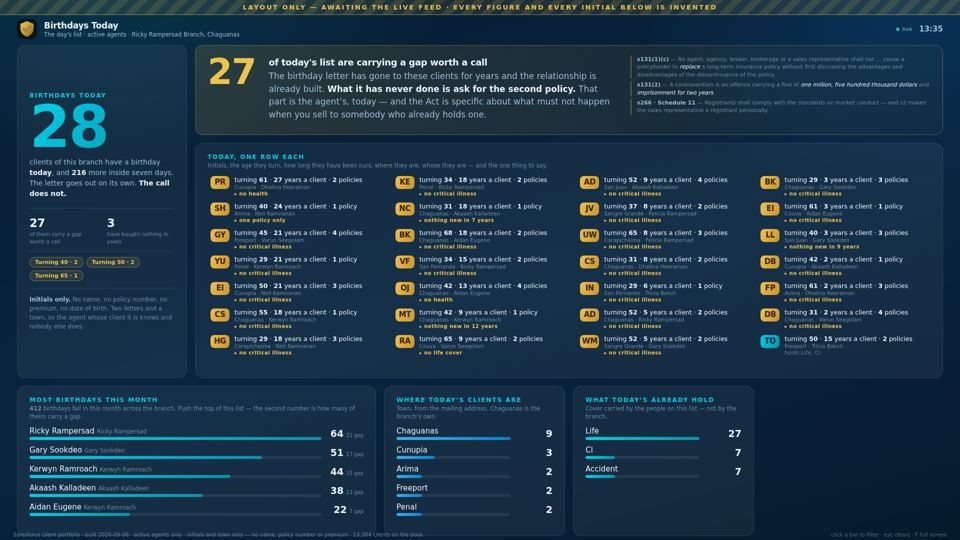
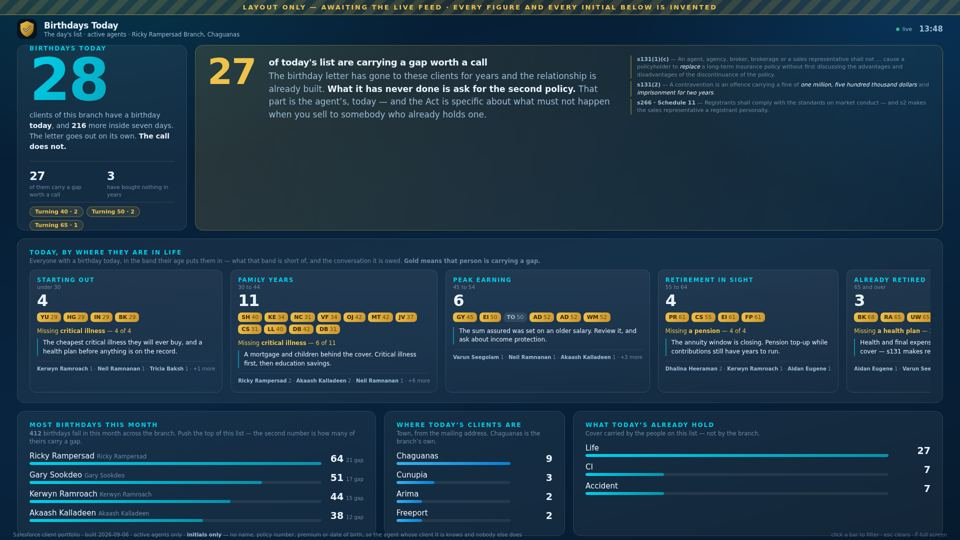
Group the day into five life stages, each with the cover it is short of
The wall was a list and a list is a spreadsheet. Twenty eight rows sorted by
tenure tells an agent nothing an export could not. It is five bands now —
starting out, family years, peak earning, retirement in sight, already retired —
each carrying its people as initials, the cover that stage is missing with a
count, and one sentence about what to say. An agent scans for their own
initials, reads the line above them, and knows the conversation before dialling.

EACH BAND CHECKS ITS OWN GAP, NOT THE BIGGEST ONE. The first cut took whichever
gap had the highest count in the band and four of the five came out saying "a
health plan", because almost nobody in this book holds health. True, and
useless: a wall that gives every life stage the same answer has stopped being a
segmentation. Each band now names the gap its own advice is about, so the
evidence line and the conversation line agree — critical illness under 45, a
review over 45, a pension at 55, health at 65.

Age is the band because it is on 100% of rows, true of everybody on the list,
and the thing that actually decides which product is right. The talking points
are branch policy rather than data, so they sit in IBOOK_BANDS in the script,
once, instead of in the wall's HTML — the screen and the app cannot then drift
apart on what the branch says about a sixty five year old. Empty bands are drawn
dim rather than dropped: a morning with nobody approaching retirement is worth
[…]

Changed region(s): [[0.0312, 0.0593, 0.9688, 1.0], [0.4375, 0.9778, 0.5312, 1.0], [0.5625, 0.9185, 0.5938, 0.9481]]

diff --git a/intelligence/wall/book.html b/intelligence/wall/book.html
@@ -75,7 +75,7 @@
     /* Seven rows of people need 450; the bottom three panels need 300 to show
        five lines each. The first cut gave row two everything and left row three
        showing four of five with the fifth sliced. */
-    grid-template-rows:auto minmax(0,470px) minmax(0,300px);
+    grid-template-rows:auto minmax(0,430px) minmax(0,250px);
     gap:13px;padding:0 26px 20px;height:calc(100vh - 66px)}
   .card{background:var(--card);border:1px solid var(--line);border-radius:var(--r);
     padding:16px 18px;min-height:0;display:flex;flex-direction:column}
@@ -83,8 +83,8 @@
     text-transform:uppercase;color:var(--teal)}
   .card .cap{font-size:11.5px;color:var(--faint);margin:0 0 9px;line-height:1.4}
 
-  .hero{grid-row:1/3;justify-content:center}
-  .hero .big{font-family:var(--font-d);font-weight:800;font-size:96px;line-height:.9;
+  .hero{grid-column:1;justify-content:center}
+  .hero .big{font-family:var(--font-d);font-weight:800;font-size:74px;line-height:.9;
     letter-spacing:-4px;background:var(--grad-teal);-webkit-background-clip:text;
     background-clip:text;color:transparent}
   .hero .cap2{font-size:14px;color:var(--dim);margin-top:8px;line-height:1.5}
@@ -153,7 +153,7 @@
   .row .val small{font:500 10px var(--font-b);color:var(--faint);margin-left:5px}
   .row.zero{opacity:.35;cursor:default}
 
-  .today{grid-column:2/6;grid-row:2}
+  .today{grid-column:1/6;grid-row:2}
   .month{grid-column:1/3}
   .alist{display:grid;grid-auto-flow:column;grid-template-rows:repeat(9,auto);
     gap:0 26px;overflow:hidden;flex:1;align-content:start}
@@ -175,7 +175,8 @@
     text-transform:uppercase;color:var(--dim)}
   .two .sub{font-size:11px;color:var(--faint);margin:0 0 8px;line-height:1.4}
 
-  .hist{grid-column:3/6}
+  .towns{grid-column:3/4}
+  .holds{grid-column:4/6}
   .sgrid{display:grid;grid-template-columns:repeat(3,1fr);gap:14px;margin-bottom:12px}
   .sgrid .v{font-family:var(--font-d);font-weight:800;font-size:30px;letter-spacing:-1px;line-height:1}
   .sgrid .k{font-size:10.5px;color:var(--faint);margin-top:4px;line-height:1.35}
@@ -184,6 +185,7 @@
   .note b{color:var(--dim)}
 
   footer{position:fixed;left:26px;bottom:5px;font-size:10.5px;color:var(--faint)}
+  footer b{color:var(--dim);font-weight:600}
   .hint{position:fixed;right:26px;bottom:5px;font-size:10.5px;color:var(--faint);opacity:.7}
 
   @media (min-width:1700px){
@@ -224,8 +226,44 @@
      the door, then the two facts that decide the call — the age they turn and
      how long they have been ours — then where and whose, then the one thing to
      say. Nothing else fits and nothing else is needed. */
-  .clist{display:grid;grid-auto-flow:column;grid-template-rows:repeat(7,auto);
-    gap:4px 24px;overflow:hidden;flex:1;align-content:start}
+  /* FIVE BANDS ACROSS, ALWAYS THE SAME FIVE. An empty band is drawn dim rather
+     than dropped: panels that move around from day to day cannot be read at a
+     glance, and a morning with nobody approaching retirement is itself worth
+     seeing. */
+  .clist{display:grid;grid-template-columns:repeat(5,1fr);gap:16px;
+    overflow:hidden;flex:1;align-content:stretch}
+  .band{display:flex;flex-direction:column;min-height:0;
+    border:1px solid var(--line);border-radius:13px;padding:13px 14px;
+    background:linear-gradient(180deg,rgba(255,255,255,.05),rgba(255,255,255,.015))}
+  .band.empty{opacity:.42}
+  .band .bk{font:800 11.5px var(--font-b);letter-spacing:.15em;text-transform:uppercase;
+    color:var(--teal)}
+  .band .br{font-size:10.5px;color:var(--faint);margin-top:1px}
+  .band .bn{font-family:var(--font-d);font-weight:800;font-size:32px;line-height:1;
+    letter-spacing:-1.4px;margin:5px 0 8px}
+  /* the people, as chips — initials and the age they turn, nothing else */
+  .chips{display:flex;flex-wrap:wrap;gap:5px;margin-bottom:10px}
+  .chip{font:700 11px var(--font-b);border-radius:7px;padding:4px 7px;line-height:1;
+    background:rgba(255,255,255,.09);color:var(--dim);white-space:nowrap}
+  .chip.gap{background:var(--grad-gold);color:#3a2404}
+  .chip i{font-style:normal;font-weight:800;font-family:var(--font-d)}
+  .chip b{font-weight:500;opacity:.75;margin-left:3px}
+  .band .miss{font-size:11.5px;color:var(--gold);line-height:1.4;margin-bottom:7px}
+  .band .miss b{font-family:var(--font-d);font-weight:800}
+  /* NO margin-bottom:auto HERE, deliberately. Pinning the agent line to the
+     bottom of the card looked tidier and hid a real fault twice over: the line
+     was being pushed past the bottom edge on the band with eleven people in it,
+     AND neither scrollHeight nor a sum of the children could see it, because
+     an auto margin absorbs the overflow into itself. Content that simply flows
+     is content a check can measure. */
+  .band .talk{font-size:12px;color:var(--ink);line-height:1.45;
+    border-left:2px solid rgba(0,207,234,.55);padding-left:10px}
+  /* One line, clipped with an ellipsis, and the overflow counted rather than
+     wrapped — a second line here is drawn below the bottom of the card. */
+  .band .who{font-size:10px;color:var(--faint);line-height:1.45;margin-top:10px;
+    padding-top:8px;border-top:1px solid rgba(255,255,255,.08);
+    white-space:nowrap;overflow:hidden;text-overflow:ellipsis}
+  .band .who b{color:var(--dim);font-weight:600}
   .crow{display:grid;grid-template-columns:38px 1fr;gap:10px;align-items:start;
     padding:4px 6px;border-radius:8px;transition:.16s;cursor:default}
   .crow:hover{background:rgba(255,255,255,.05)}
@@ -267,7 +305,7 @@
     font:700 9.5px var(--font-b);letter-spacing:.12em;text-transform:uppercase;
     color:var(--faint);padding-bottom:4px;border-bottom:1px solid rgba(255,255,255,.12)}
   .bday .bhead div+div{text-align:right}
-  .hero .miles{margin-top:12px;padding-top:11px;border-top:1px solid var(--line);
+  .hero .miles{margin-top:8px;padding-top:8px;border-top:1px solid var(--line);
     display:flex;flex-wrap:wrap;gap:6px}
   .hero .mile{font:700 11px var(--font-b);color:var(--gold);
     border:1px solid rgba(239,194,75,.4);background:rgba(239,194,75,.10);
@@ -322,7 +360,6 @@
       <div><div class="v" id="heroQuiet">&mdash;</div><div class="k">have bought nothing in years</div></div>
     </div>
     <div class="miles" id="bMiles"></div>
-    <div class="who" id="heroWho"></div>
   </section>
 
   <section class="card law">
@@ -334,20 +371,21 @@
     <div class="acts" id="lawActs"></div>
   </section>
 
-  <section class="card today"><h3 id="tHead">Today, one row each</h3>
-    <p class="cap">Initials, the age they turn, how long they have been ours, where they are,
-      whose they are &mdash; and the one thing to say.</p>
+  <section class="card today"><h3 id="tHead">Today, by where they are in life</h3>
+    <p class="cap">Everyone with a birthday today, in the band their age puts them in &mdash;
+      what that band is short of, and the conversation it is owed.
+      <b>Gold means that person is carrying a gap.</b></p>
     <div class="clist" id="cList"></div></section>
 
   <section class="card month"><h3>Most birthdays this month</h3>
     <p class="cap" id="monthCap"></p>
     <div class="rows" id="rMonth"></div></section>
 
-  <section class="card"><h3>Where today&rsquo;s clients are</h3>
+  <section class="card towns"><h3>Where today&rsquo;s clients are</h3>
     <p class="cap">Town, from the mailing address. Chaguanas is the branch&rsquo;s own.</p>
     <div class="rows" id="rTown"></div></section>
 
-  <section class="card"><h3>What today&rsquo;s already hold</h3>
+  <section class="card holds"><h3>What today&rsquo;s already hold</h3>
     <p class="cap">Cover carried by the people on this list &mdash; not by the branch.</p>
     <div class="rows" id="rHold"></div></section>
 </main>
@@ -468,7 +506,6 @@ function paint(){
     $("#heroCap").innerHTML='Birth date, town and the coverage columns all live on '
       + '<b>CLIENT_PORTFOLIO__c</b> and the Contact behind it. Nothing in the branch '
       + 'workbook carries them.';
-    $("#heroWho").innerHTML='';
     $("#bMiles").innerHTML='';
     $("#lawN").textContent="s131";
     $("#lawHd").textContent="The letter has gone out for years. This is the call.";
@@ -500,9 +537,7 @@ function paint(){
   $("#bMiles").innerHTML = MI.length
     ? MI.map(function(m){ return '<span class="mile">'+esc(m.k)+' &middot; '+n(m.n)+'</span>'; }).join("")
     : '';
-  $("#heroWho").innerHTML='<b>Initials only.</b> No name, no policy number, no premium, '
-    + 'no date of birth. Two letters and a town, so the agent whose client it is knows '
-    + 'and nobody else does.';
+
 
   $("#lawN").textContent=n(T.withGap);
   $("#lawHd").textContent="of today's list are carrying a gap worth a call";
@@ -513,30 +548,38 @@ function paint(){
   $("#lawActs").innerHTML=ACTS.map(function(a){
     return '<div class="act"><b>'+a[0]+'</b> &mdash; '+a[1]+'</div>'; }).join("");
 
-  /* One row per person. Filtering by agent or town holds the list to them,
-     which is how an agent finds their own four out of twenty eight. */
-  var list=(T.clients||[]).filter(function(c){
+  /* Bands, not rows. Filtering by agent, town or cover thins the people inside
+     each band rather than reordering one long list, so the shape of the day
+     survives the filter — an agent holding the wall to their own name still
+     sees which stages of life their four are in. */
+  function keep(c){
     if(!FILTER) return true;
     if(FILTER.dim==="agent") return c.agent===FILTER.key;
     if(FILTER.dim==="town")  return c.town===FILTER.key;
-    if(FILTER.dim==="hold")  return (c.holds||[]).indexOf(FILTER.key)>-1;
     return true;
-  });
-  $("#tHead").textContent = FILTER ? "Today · "+FILTER.key : "Today, one row each";
-  $("#cList").innerHTML = list.length ? list.slice(0,28).map(function(c){
-      var bits=[];
-      if(c.turning!=null) bits.push('turning <b>'+c.turning+'</b>');
-      if(c.years!=null)   bits.push('<b>'+c.years+'</b> years a client');
-      if(c.policies)      bits.push('<b>'+c.policies+'</b> '+(c.policies===1?'policy':'policies'));
-      var where=[c.town||'—', c.agent].filter(Boolean).join(' · ');
-      return '<div class="crow'+(c.prompt?' gap':'')+'">'
-        + '<div class="ini">'+esc(c.ini||'—')+'</div>'
-        + '<div><div class="l1">'+bits.join(' · ')+'</div>'
-        + '<div class="l2">'+esc(where)+'</div>'
-        + '<div class="tag'+(c.prompt?'':' ok')+'">'
-        +   (c.prompt ? '&#9656; '+esc(c.prompt)
-                      : 'holds '+esc((c.holds||[]).join(', ')||'nothing we can read'))
-        + '</div></div></div>';
+  }
+  $("#tHead").textContent = FILTER ? "Today · "+FILTER.key : "Today, by where they are in life";
+  var bands=(T.bands||[]);
+  $("#cList").innerHTML = bands.length ? bands.map(function(b){
+      var people=(b.people||[]).filter(keep);
+      var agents=(b.agents||[]).filter(function(a){ return !FILTER||FILTER.dim!=="agent"||a.k===FILTER.key; });
+      return '<div class="band'+(people.length?'':' empty')+'">'
+        + '<div class="bk">'+esc(b.k)+'</div>'
+        + '<div class="br">'+esc(b.range)+'</div>'
+        + '<div class="bn">'+n(people.length)+'</div>'
+        + '<div class="chips">'+people.map(function(c){
+            return '<span class="chip'+(c.gap?' gap':'')+'"><i>'+esc(c.ini)+'</i>'
+                 + (c.turning!=null?'<b>'+c.turning+'</b>':'')+'</span>'; }).join("")+'</div>'
+        + (b.missing && people.length
+            ? '<div class="miss">Missing <b>'+esc(b.missing.k)+'</b> — '
+              + n(b.missing.n)+' of '+n(b.n)+'</div>' : '')
+        + '<div class="talk">'+esc(b.talk)+'</div>'
+        + (agents.length
+            ? '<div class="who">'+agents.slice(0,3).map(function(a){
+                return '<b>'+esc(a.k)+'</b> '+n(a.n); }).join(' &middot; ')
+              + (agents.length>3?' &middot; +'+(agents.length-3)+' more':'')+'</div>'
+            : '<div class="who">nobody today</div>')
+        + '</div>';
     }).join("")
     : '<p class="none">Nobody on the branch book has a birthday today. '
       + n(T.week)+' do inside the next seven days.</p>';
@@ -546,8 +589,8 @@ function paint(){
     + 'branch. Push the top of this list &mdash; the second number is how many of theirs '
     + 'carry a gap.';
   /* Five, not seven: the bottom row is 250px and a wall does not scroll. */
-  monthBars($("#rMonth"), (M.byAgent||[]).slice(0,5));
-  bars($("#rTown"), (T.towns||[]).slice(0,5), "town", "accent");
+  monthBars($("#rMonth"), (M.byAgent||[]).slice(0,4));
+  bars($("#rTown"), (T.towns||[]).slice(0,4), "town", "accent");
   bars($("#rHold"), T.holds||[],               "hold", "teal");
 }
 
@@ -578,9 +621,9 @@ setInterval(tick,10000); tick();
 function boot(){
   paint();
   if(!BOOK.configured) return;
-  $("#src").textContent="Salesforce client portfolio · built "+BOOK.generatedAt
-    + " · active agents only · initials and town only — no name, policy number or premium"
-    + (BOOK.clients?" · "+n(BOOK.clients)+" clients on the book":"");
+  $("#src").innerHTML="Salesforce client portfolio · built "+BOOK.generatedAt
+    + " · active agents only · <b>initials only</b> — no name, policy number, premium or "
+    + "date of birth, so the agent whose client it is knows and nobody else does";
 }
 function load(){
   if(!BOOK_URL){ boot(); return; }

diff --git a/INTELLIGENCE-SETUP.md b/INTELLIGENCE-SETUP.md
@@ -971,6 +971,59 @@ Which is the argument for the wall rather than against it: the conversation has
 to start from what the client already holds, and this is the screen that shows
 it.
 
+#### Five bands, and what each one is short of
+
+The wall was a list before this, and a list is a spreadsheet. Twenty eight rows
+sorted by tenure tells an agent nothing an export could not. What makes it a
+wall is the grouping: **five life stages**, each with the cover that stage is
+typically missing, the people in it as initials, and one sentence about what to
+say. An agent scans for their own initials, reads the line above them, and knows
+the conversation before they dial.
+
+| Band | Age | What it checks | What the wall says to do |
+|---|---|---|---|
+| Starting out | under 30 | critical illness | The cheapest CI they will ever buy, and a health plan before anything is on the record |
+| Family years | 30 to 44 | critical illness | A mortgage and children behind the cover. CI first, then education savings |
+| Peak earning | 45 to 54 | nothing bought recently | The sum assured was set on an older salary. Review it, and ask about income protection |
+| Retirement in sight | 55 to 64 | a pension | The annuity window is closing. Pension top-up while contributions still have years to run |
+| Already retired | 65 and over | a health plan | Health and final expenses. **Do not touch the life cover** — s131 makes replacing it personal |
+
+**Each band checks its own gap, not the biggest one.** The first cut took
+whichever gap had the highest count in the band and four of the five came out
+saying "a health plan", because almost nobody in this book holds health. True,
+and useless — a wall that gives every life stage the same answer has stopped
+being a segmentation. Each band now names the gap its own advice is about, so
+the evidence line and the conversation line agree.
+
+Age is the band because it is present on 100% of rows, true of everybody on the
+list, and the thing that actually decides which product is right. The talking
+points are branch policy rather than data, so they live in `IBOOK_BANDS` in the
+script — once — instead of in the wall's HTML, and the screen and the app cannot
+drift apart on what the branch says about a sixty five year old.
+
+**Empty bands are drawn dim, not dropped.** A morning with nobody approaching
+retirement is worth seeing, and a wall whose panels move about from day to day
+cannot be read at a glance.
+
+#### Households: the data will not carry it
+
+Asked for and not built, because three candidate keys were tested and none of
+them is a household:
+
+| | |
+|---|---|
+| `Relationship_Group__c` | 127 rows of 24,680, 20 distinct — the object exists and is not used |
+| `Account__c` | on 100% of rows, but one account holds **2,953** clients and the next 507 — it is a group or corporate key, not a family |
+| `Contact.MailingStreet` | 8,654 distinct strings across 9,367 clients — 92% unique, so it groups almost nobody, and what it does group could as easily be an apartment block |
+
+Surname plus town was considered and rejected: 3,408 surnames across 9,367
+clients in a country where Mohammed, Persad and Ramnarine are common would
+manufacture families that do not exist, and a wrong household in front of an
+agent is worse than none.
+
+`Relationship_Groups__c` is the right home for it and it is empty. If the branch
+starts populating it, the wall can read it.
+
 #### The three panels underneath
 
 **Most birthdays this month, by agent** — the branch asked to see who has the
